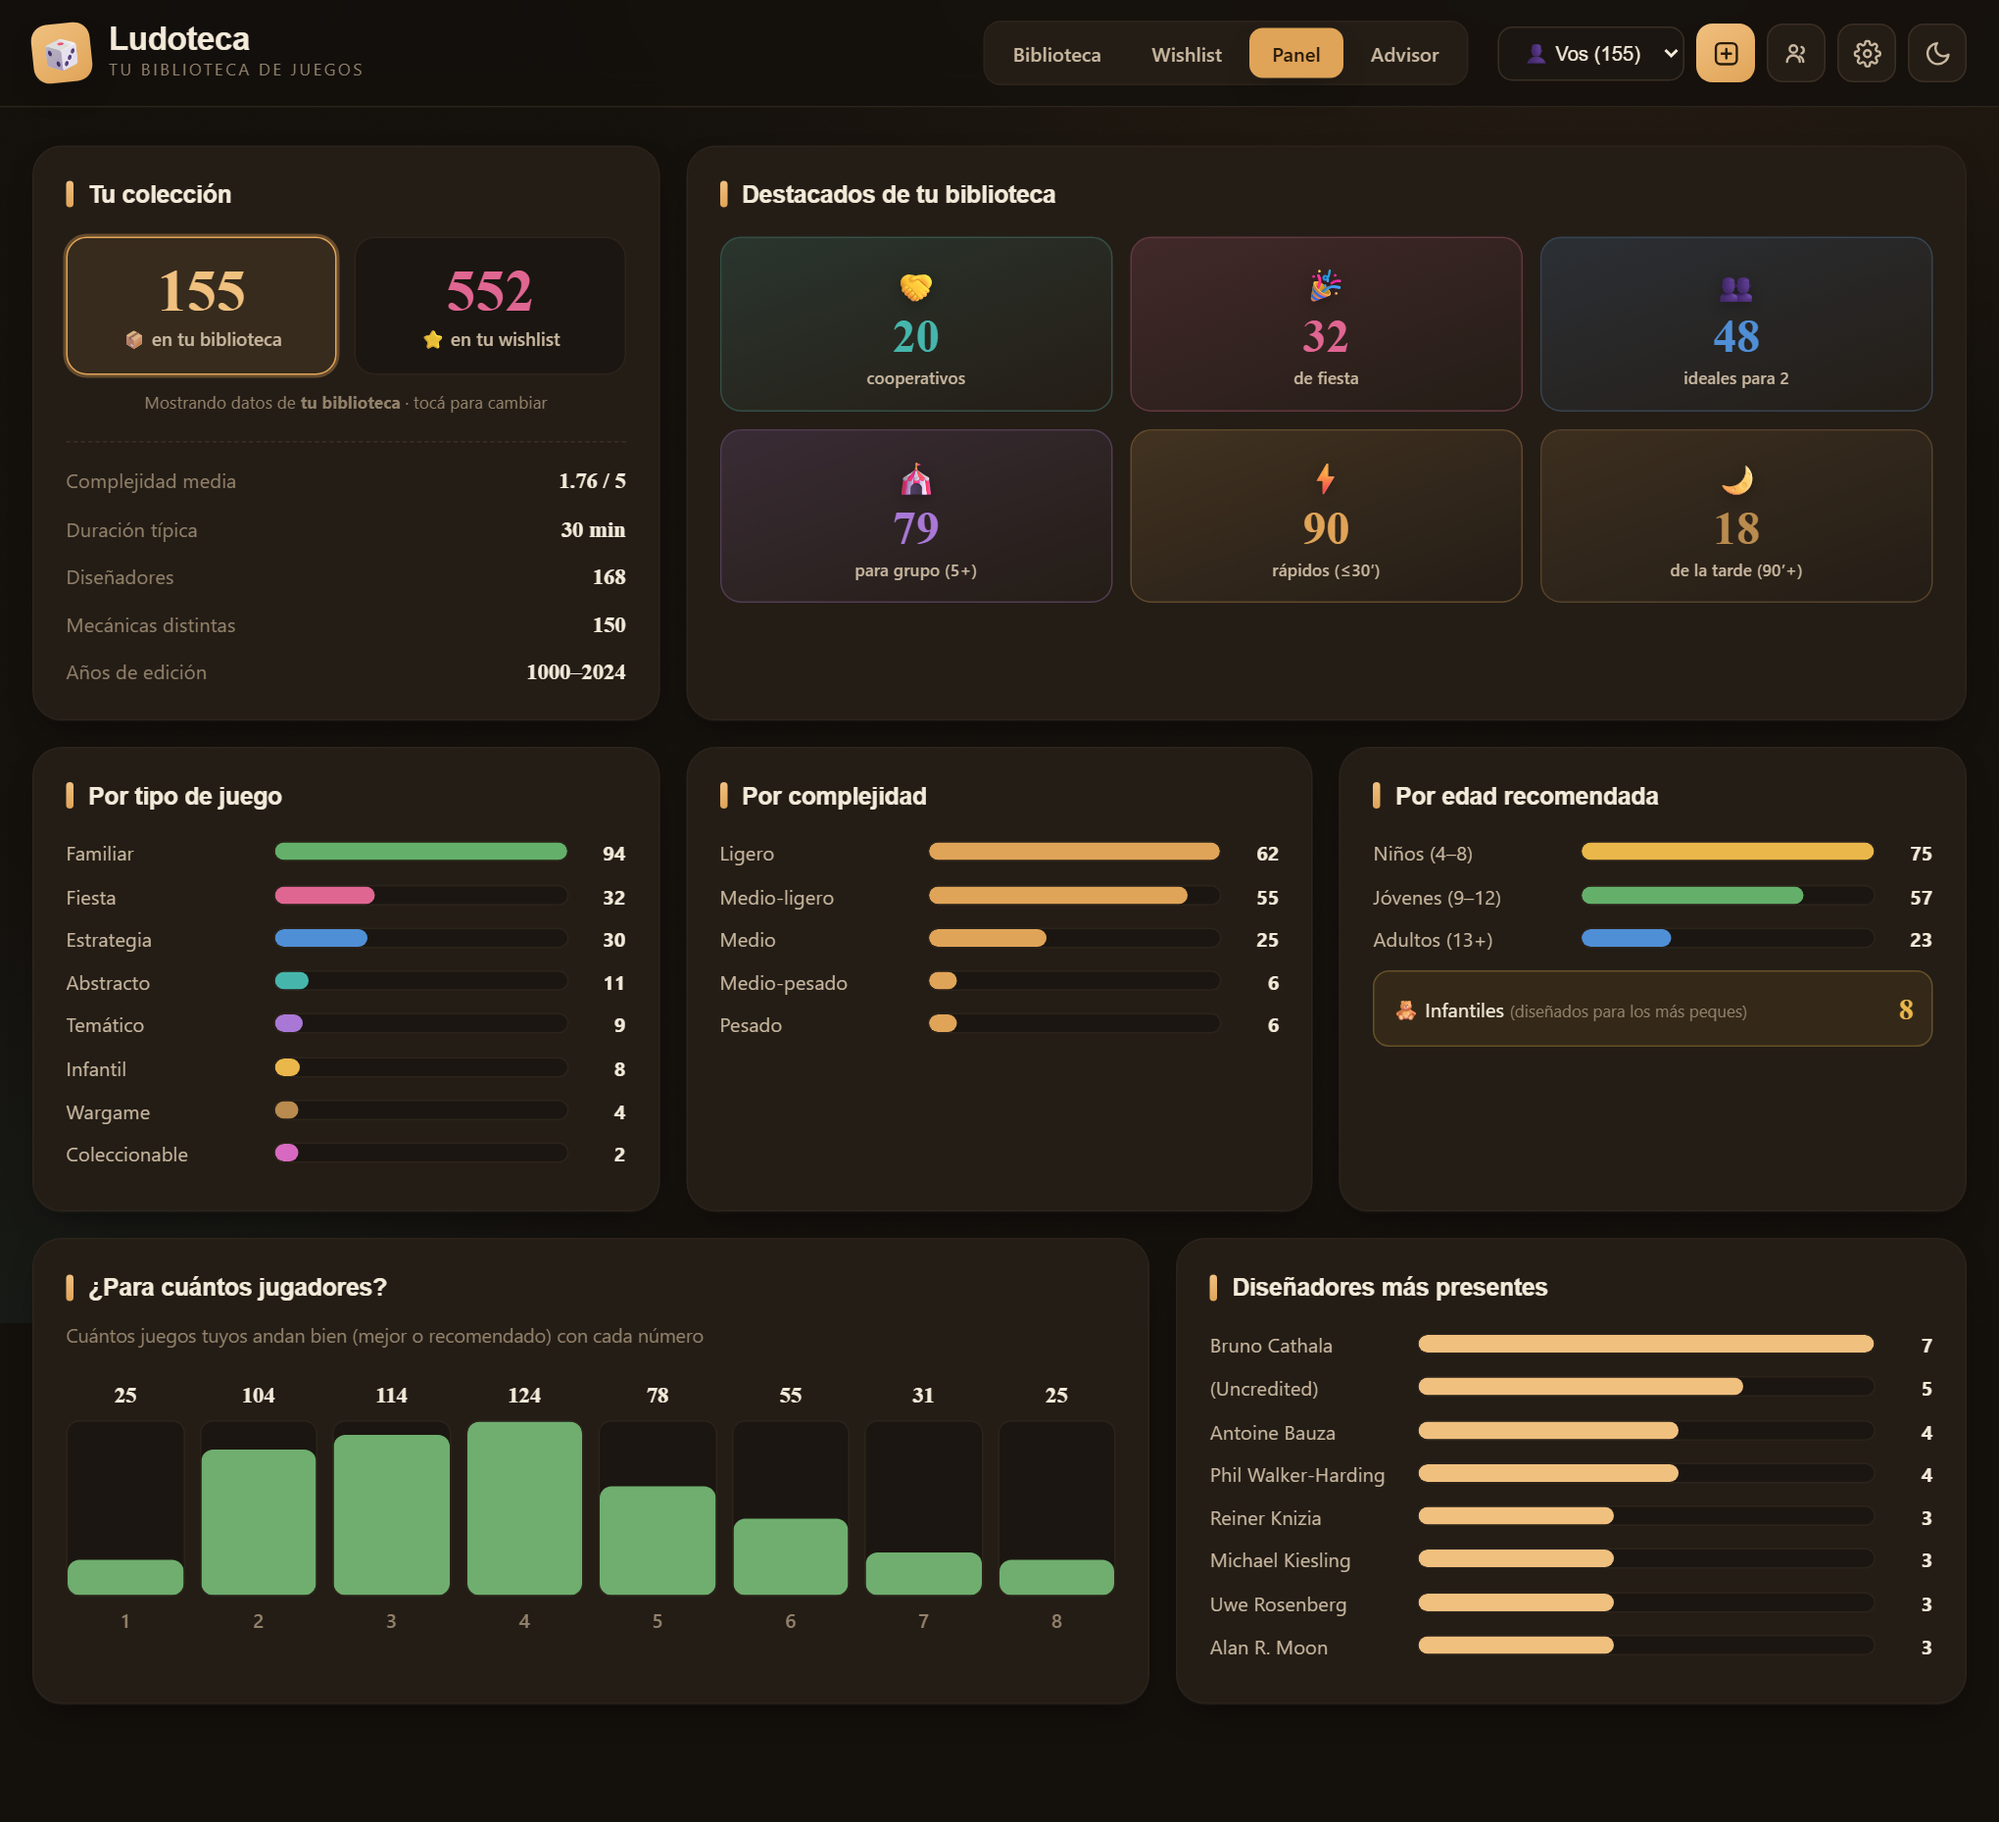
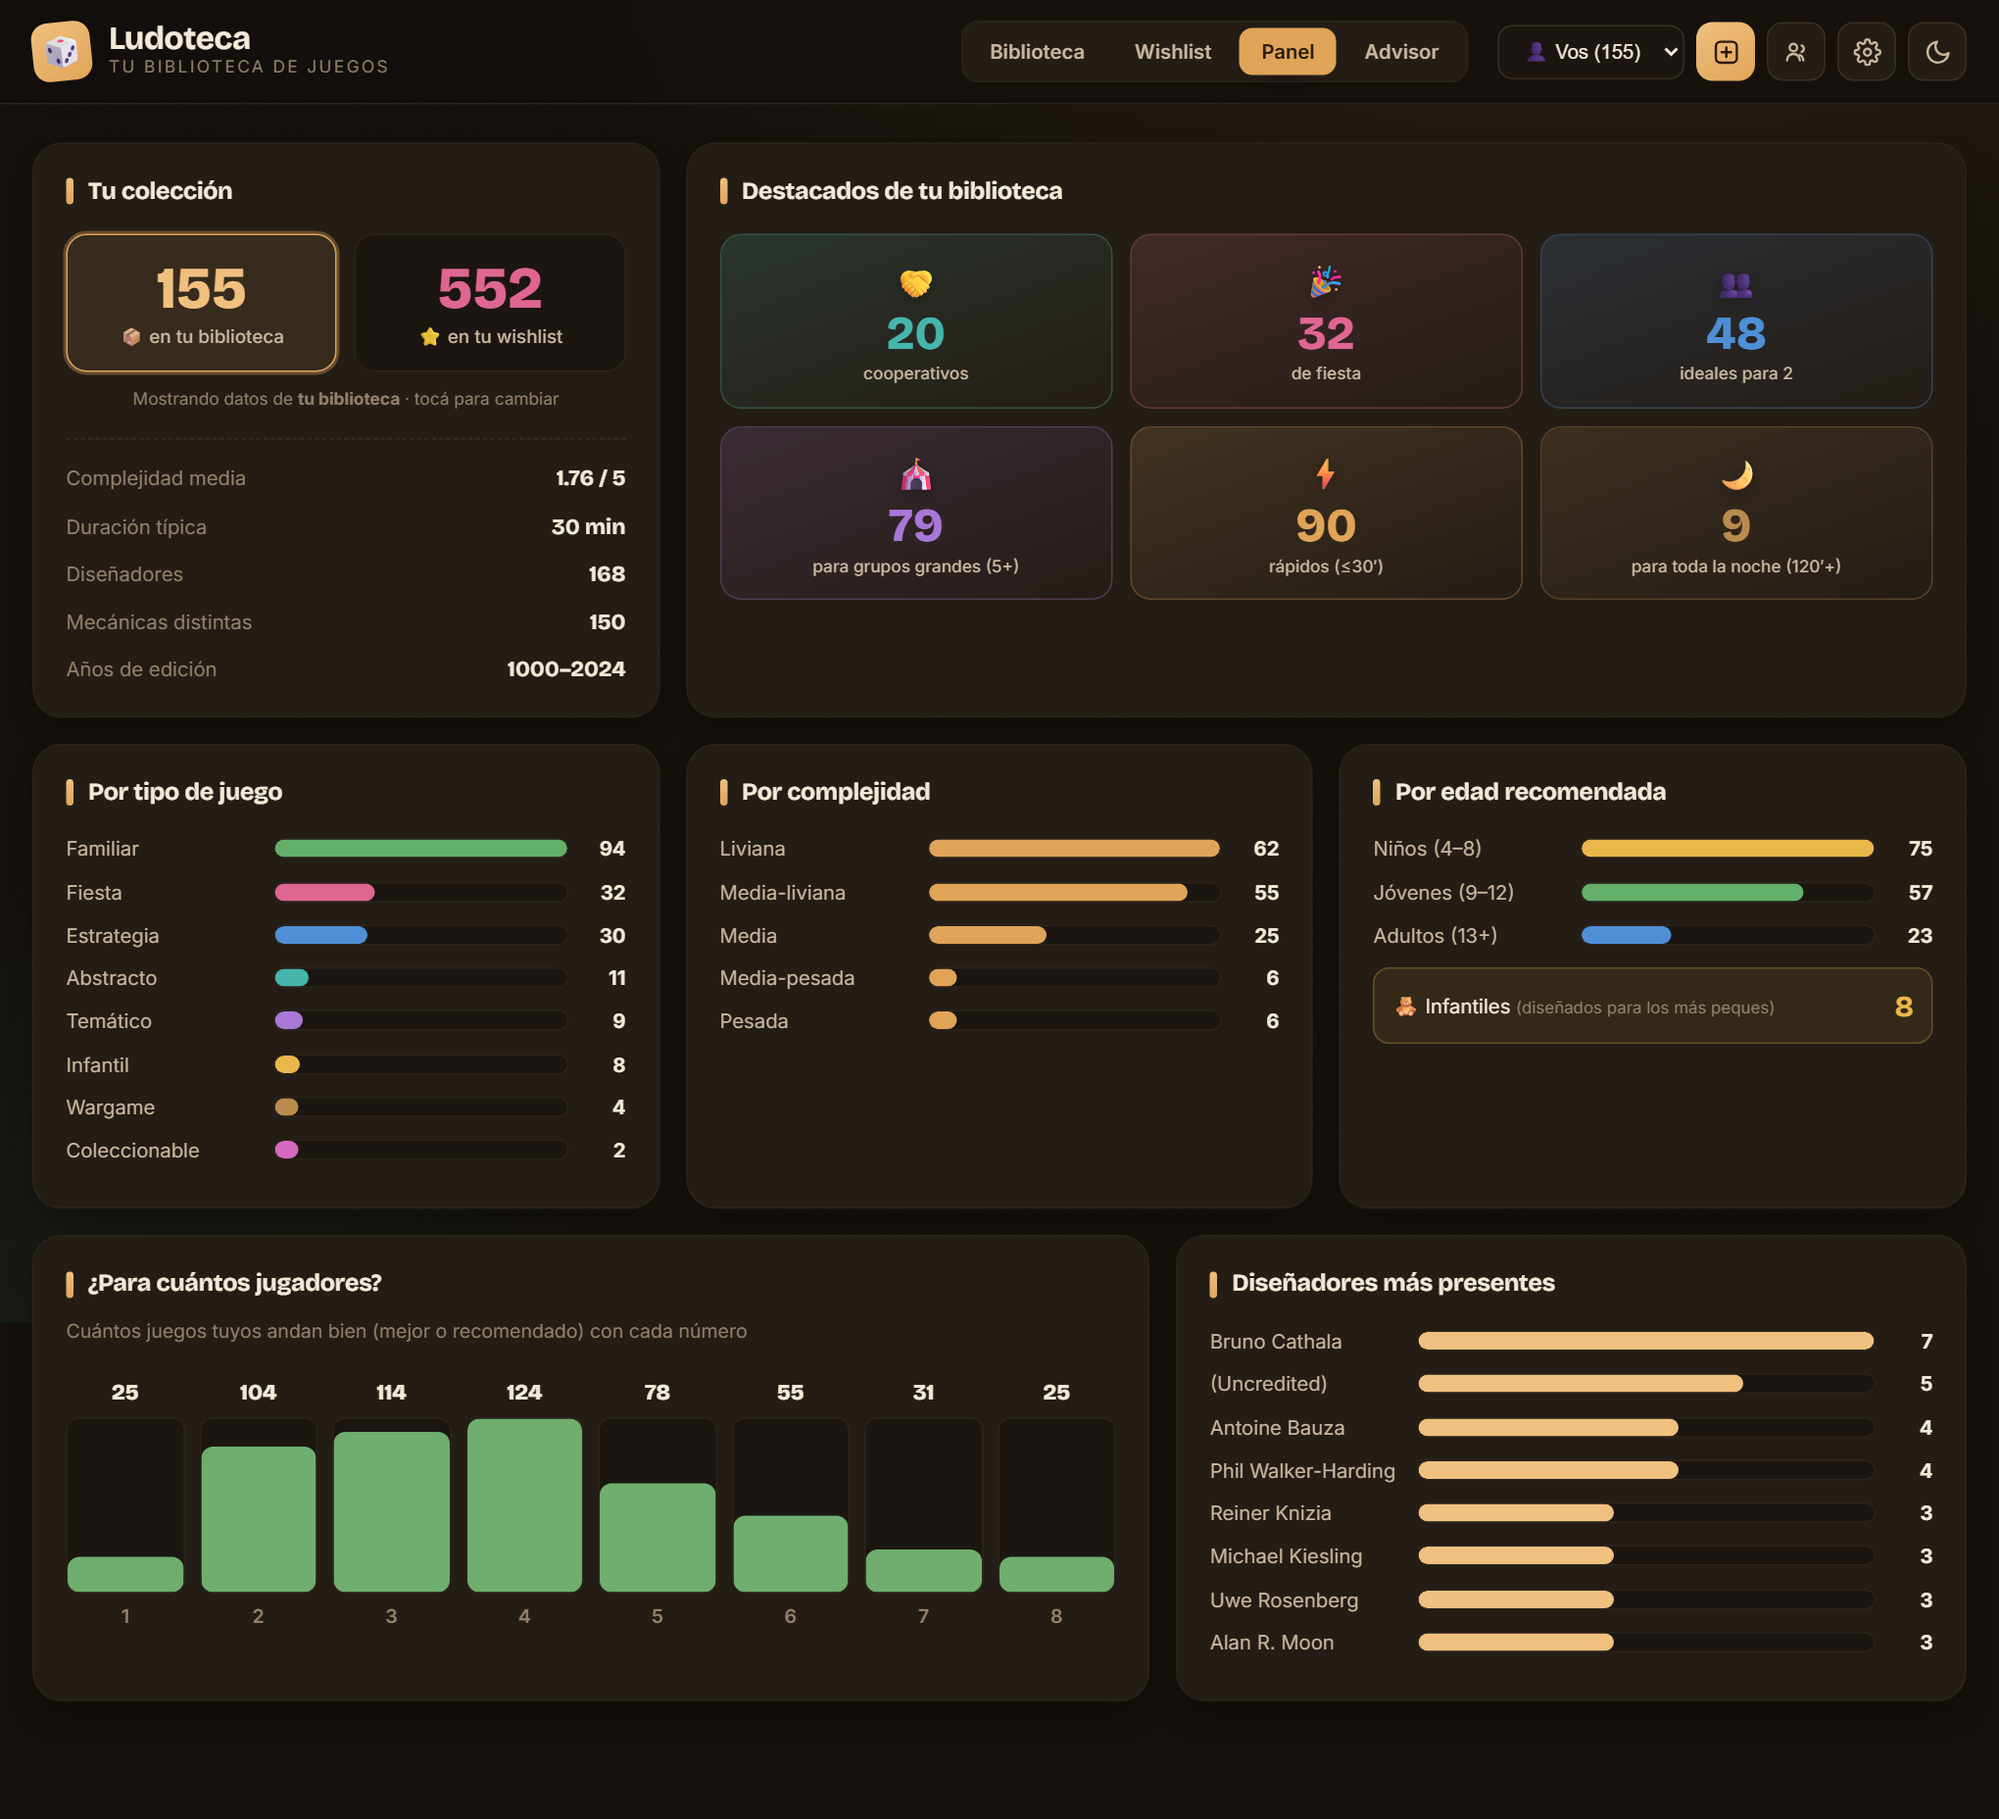
fix(panel): escala complejidad femenina completa, labels destacados, no-cache, desempate wishlist
Complejidad: Liviana/Media-liviana/Media/Media-pesada/Pesada (front+back). Destacados: para grupos grandes (5+) y para toda la noche (120+, filtra >=120). Headers no-store para no servir JS/CSS viejo. Wishlist por prioridad: desempata por ranking BGG.

diff --git a/web/app.js b/web/app.js
@@ -30,7 +30,7 @@ const SUBDOMAIN = {
   'Customizable Games': ['Coleccionable', 'var(--m-custom)'],
   "Children's Games": ['Infantil', 'var(--m-children)'],
 };
-const WEIGHT_LABELS = ['Ligero', 'Medio-ligero', 'Medio', 'Medio-pesado', 'Pesado'];
+const WEIGHT_LABELS = ['Liviana', 'Media-liviana', 'Media', 'Media-pesada', 'Pesada'];
 function weightBucket(w) {
   if (!w) return null;
   if (w < 1.5) return 0; if (w < 2.1) return 1; if (w < 2.7) return 2; if (w < 3.4) return 3; return 4;
@@ -136,7 +136,8 @@ function currentList(kind) {
     else if (s === 'weight') cmp = (b.weight || 0) - (a.weight || 0);
     else if (s === 'year') cmp = (+b.yearpublished || 0) - (+a.yearpublished || 0);
     else if (s === 'name') cmp = (a.name || '').localeCompare(b.name || '');
-    else if (s === 'prio') cmp = (a.wishlist_priority || 3) - (b.wishlist_priority || 3);
+    else if (s === 'prio') cmp = ((a.wishlist_priority || 3) - (b.wishlist_priority || 3))
+      || ((a.rank_overall || 1e9) - (b.rank_overall || 1e9));   // empate de prioridad -> mejor rank BGG primero
     else if (s === 'time') cmp = (a.maxplaytime || 0) - (b.maxplaytime || 0);
     return cmp * dir;
   });
@@ -482,9 +483,9 @@ async function renderPanel(m) {
     ['🤝', h.coop, 'cooperativos', 'var(--m-abstract)'],
     ['🎉', h.party, 'de fiesta', 'var(--m-party)'],
     ['👥', h.two, 'ideales para 2', 'var(--m-strategy)'],
-    ['🎪', h.big, 'para grupo (5+)', 'var(--m-thematic)'],
+    ['🎪', h.big, 'para grupos grandes (5+)', 'var(--m-thematic)'],
     ['⚡', h.quick, 'rápidos (≤30′)', 'var(--brass)'],
-    ['🌙', h.long, 'de la tarde (90’+)', 'var(--m-war)'],
+    ['🌙', h.long, 'para toda la noche (120′+)', 'var(--m-war)'],
   ];
   grid.append(node(`<div class="panel highlights" style="grid-column:span 8">
     <h3>Destacados de ${src === 'wishlist' ? 'tu wishlist' : 'tu biblioteca'}</h3>

diff --git a/server/app.py b/server/app.py
@@ -22,6 +22,16 @@ app = FastAPI(title="BG Library")
 db.init()
 
 
+@app.middleware("http")
+async def no_cache_assets(request, call_next):
+    """App local en evolución: que el navegador nunca sirva HTML/JS/CSS viejo cacheado."""
+    resp = await call_next(request)
+    path = request.url.path
+    if path == "/" or path.endswith((".js", ".css", ".html")):
+        resp.headers["Cache-Control"] = "no-store, must-revalidate"
+    return resp
+
+
 def _me():
     conn = db.connect()
     me = db.get_me(conn)
@@ -322,7 +332,7 @@ def stats(owner: int = 0, source: str = "own"):
         "two": sum(1 for g in sel if 2 in (g.get("best_players") or [])),      # ideales para 2
         "big": sum(1 for g in sel if any(has_num(g, n) for n in (5, 6, 7, 8))),
         "quick": sum(1 for g in sel if 0 < (g.get("maxplaytime") or 0) <= 30),
-        "long": sum(1 for g in sel if (g.get("maxplaytime") or 0) >= 90),
+        "long": sum(1 for g in sel if (g.get("maxplaytime") or 0) >= 120),   # para toda la noche
     }
 
     # distribución por edad recomendada (editorial), en intervalos

diff --git a/server/advisor.py b/server/advisor.py
@@ -20,7 +20,7 @@ WEIGHT_BANDS = {
     "medium": (1.9, 2.7),
     "heavy": (2.7, 5.0),
 }
-WEIGHT_LABELS = ["Ligero", "Medio-ligero", "Medio", "Medio-pesado", "Pesado"]
+WEIGHT_LABELS = ["Liviana", "Media-liviana", "Media", "Media-pesada", "Pesada"]
 
 # dependencia de idioma/lectura -> nivel coloquial
 LANG_LEVEL = {
